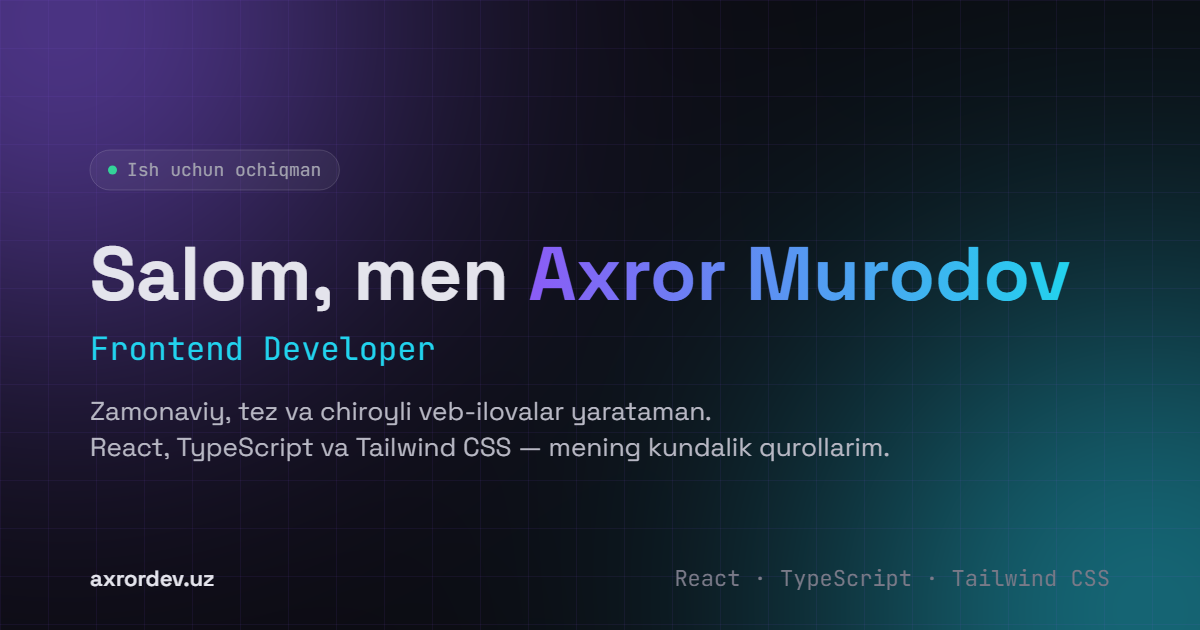
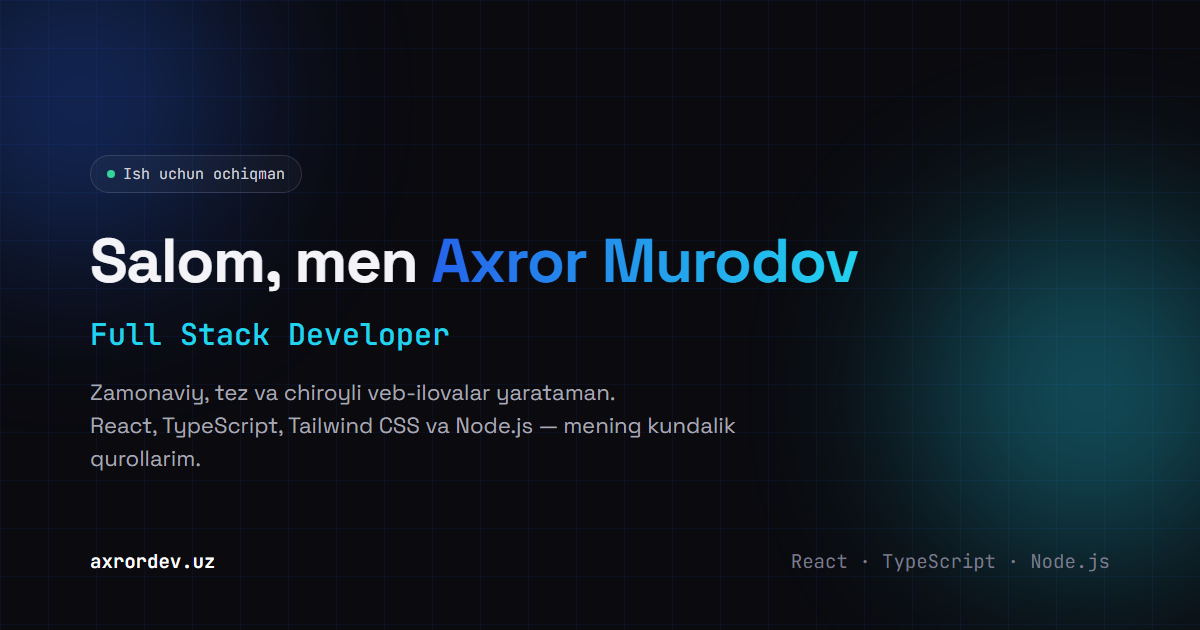
Clean up stale docs/assets left over from the Formo rebrand
- Regenerate og-image.png with "Full Stack Developer" instead of the
  old "Frontend Developer" copy, so link previews match the site.
- Rewrite README's portfolio-content section and .env.example for the
  current Formo project card and the split TELEGRAM_FORMO_*/
  TELEGRAM_CONTACT_* env vars — both still referenced the deleted
  projects data file and the old single bot token.
- Remove profile.ts's unused telegramBot field and the dead
  .project-cover* CSS block, both orphaned by earlier removals.

diff --git a/src/index.css b/src/index.css
@@ -141,114 +141,3 @@ html.light .bg-grid {
   -ms-overflow-style: none;
   scrollbar-width: none;
 }
-
-/* Code-drawn project artwork. Real screenshots replace it when available. */
-.project-cover {
-  position: relative;
-  isolation: isolate;
-  margin: 0;
-  aspect-ratio: 8 / 5;
-  overflow: hidden;
-  border: 1px solid color-mix(in srgb, var(--cover-accent) 25%, transparent);
-  border-radius: 0.75rem;
-  background: radial-gradient(ellipse at 65% 35%, color-mix(in srgb, var(--cover-accent) 20%, #11131c), #0d1019 75%);
-  color: var(--cover-accent);
-}
-
-.project-cover-grid {
-  position: absolute;
-  inset: 0;
-  background-image: linear-gradient(#ffffff06 1px, transparent 1px), linear-gradient(90deg, #ffffff06 1px, transparent 1px);
-  background-size: 28px 28px;
-  mask-image: linear-gradient(130deg, #000, transparent);
-}
-
-.project-cover-number {
-  position: absolute;
-  top: 12px;
-  left: 16px;
-  font: 500 12px var(--font-mono);
-  opacity: 0.65;
-}
-
-.project-cover-orbit {
-  position: absolute;
-  left: 58%;
-  top: 46%;
-  border: 1px solid currentColor;
-  border-radius: 50%;
-  transform: translate(-50%, -50%) rotate(-25deg);
-}
-
-.project-cover-orbit-outer {
-  width: 75%;
-  height: 85%;
-  opacity: 0.12;
-}
-
-.project-cover-orbit-inner {
-  width: 56%;
-  height: 64%;
-  opacity: 0.2;
-}
-
-.project-cover-symbol {
-  position: absolute;
-  top: 46%;
-  left: 58%;
-  display: grid;
-  place-items: center;
-  width: 29%;
-  aspect-ratio: 1;
-  border: 1px solid color-mix(in srgb, var(--cover-accent) 40%, transparent);
-  border-radius: 24%;
-  background: linear-gradient(135deg, color-mix(in srgb, var(--cover-accent) 18%, #151722), #131622);
-  box-shadow: 0 16px 40px #0005, inset 0 1px 0 #ffffff15;
-  transform: translate(-50%, -50%) rotate(-8deg);
-  transition: transform 350ms ease;
-}
-
-.project-cover-symbol svg {
-  width: 53%;
-  height: 53%;
-}
-
-.group:hover .project-cover-symbol {
-  transform: translate(-50%, -53%) rotate(0deg);
-}
-
-.project-cover-tag {
-  position: absolute;
-  top: 12px;
-  right: 12px;
-  border: 1px solid #ffffff15;
-  border-radius: 5px;
-  padding: 3px 7px;
-  font: 10px var(--font-mono);
-  color: #ffffff80;
-}
-
-.project-cover-mark {
-  position: absolute;
-  right: 14px;
-  bottom: 53px;
-  max-width: 85%;
-  font-size: clamp(12px, 1.4vw, 17px);
-  font-weight: 600;
-  letter-spacing: -0.025em;
-  color: #ffffffb3;
-}
-
-.project-details .project-cover {
-  aspect-ratio: 12 / 5;
-}
-
-.project-details .project-cover-symbol {
-  width: 20%;
-}
-
-@media (prefers-reduced-motion: reduce) {
-  .project-cover-symbol {
-    transition: none;
-  }
-}

diff --git a/src/data/profile.ts b/src/data/profile.ts
@@ -15,7 +15,6 @@ export interface Profile {
   instagram: SocialLink
   github: SocialLink
   linkedin: SocialLink
-  telegramBot: SocialLink
 }
 
 export const profile: Profile = {
@@ -41,9 +40,5 @@ export const profile: Profile = {
   linkedin: {
     label: 'linkedin.com/in/axror-murodov',
     url: 'https://www.linkedin.com/in/axror-murodov-b54123403/',
-  },
-  telegramBot: {
-    label: '@murodov_dev_bot', // TODO: Contact form yuboradigan Telegram bot username
-    url: 'https://t.me/murodov_dev_bot', // TODO
   },
 }

diff --git a/README.md b/README.md
@@ -2,38 +2,31 @@
 
 ## Portfolio content
 
-- **Project screenshots:** place real images in `public/projects/`, then set the
-  matching project's `image` in `src/data/projects.ts`, for example
-  `image: '/projects/devlab-lms.webp'`. Cards and the details dialog use the same
-  image. Without an image, or if it fails to load, a labeled illustration appears.
-- **Personal contributions:** add `contributions` to the matching project as an
-  array of `{ uz: '...', en: '...' }` objects. Describe only your own confirmed
-  responsibilities. Until supplied, the contribution section offers contact.
-- **Project descriptions:** the problem and feature summaries are in
-  `src/data/projectStories.ts`, in Uzbek and English. They are based on the
-  portfolio's existing descriptions, without invented performance figures.
+- **Projects section:** shows a single real project, Formo (`src/sections/Projects.tsx`),
+  a custom sports-jersey design/ordering platform at formo.uz. The card's
+  description and live-site link live directly in `translations.ts` and
+  `Projects.tsx` (no separate projects data file).
 - **Recommendations:** add real quotes to `src/data/testimonials.ts` with `id`,
   `name`, localized `role` and `quote`, and `approvedForPublication: true` after
   the author agrees to publication. Unapproved entries stay hidden. An empty
   collection shows an invitation to share feedback, not sample testimonials.
-- **Project links:** replace the `TODO` demo and repository URLs in
-  `src/data/projects.ts`. Placeholder links are hidden from visitors.
-- **Case studies:** `featured` projects get a full `/projects/:id` page
-  (`src/pages/ProjectDetails.tsx`). Add `challenges` and `whatILearned` to the
-  matching entry in `src/data/projectStories.ts` (same `{ uz, en }[]` shape as
-  `highlights`) once you can describe them without inventing outcomes — until
-  then, those sections invite contact instead of showing fake content.
 - **Currently learning:** edit `src/data/learning.ts` to match what you're
   actually learning right now.
+- **Hero stats:** `src/data/stats.ts` numbers (projects shipped, technologies,
+  coffee) are manually maintained — keep them in sync with reality.
+- **Experience dates:** `experience.marsIt.period` / `experience.freelance.period`
+  in `src/i18n/translations.ts` currently just say "Ongoing" — add a real
+  start date once you have one to commit to.
 - **Social links:** `profile.linkedin`/`profile.telegram` in `src/data/profile.ts`
   are placeholders until you set real URLs — the Hero, Footer and Contact socials
   stay hidden until then (`src/utils/projectUrl.ts`'s `isLinkAvailable`).
-- **Contact form:** sends through the `/api/send-telegram` serverless function —
-  the bot token must only ever live server-side. See `.env.example` and set
-  `TELEGRAM_BOT_TOKEN`/`TELEGRAM_CHAT_ID` in Vercel's Environment Variables, never
-  with a `VITE_` prefix (that would ship the token to the browser).
-- **Routing:** uses `react-router-dom` with client-side rewrites, so Vercel needs
-  `vercel.json`'s SPA rewrite for `/projects/:id` to work on refresh/direct links.
+- **Forms:** both the Contact form (`src/sections/Contact.tsx`) and the Formo
+  order form (`src/sections/Projects.tsx`) send through the `/api/send-telegram`
+  serverless function, each to its own Telegram bot so the two message streams
+  never mix. Tokens must only ever live server-side. See `.env.example` and set
+  `TELEGRAM_FORMO_BOT_TOKEN`/`TELEGRAM_FORMO_CHAT_ID` and
+  `TELEGRAM_CONTACT_BOT_TOKEN`/`TELEGRAM_CONTACT_CHAT_ID` in Vercel's Environment
+  Variables, never with a `VITE_` prefix (that would ship the tokens to the browser).
 
 Run `npm run dev` to preview, `npm run build` to compile, and `npm run lint` to lint.
 
